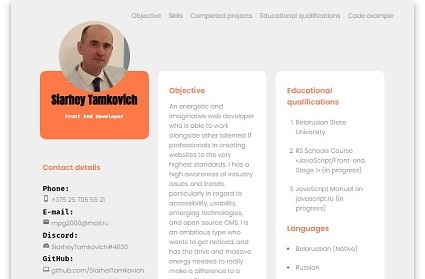
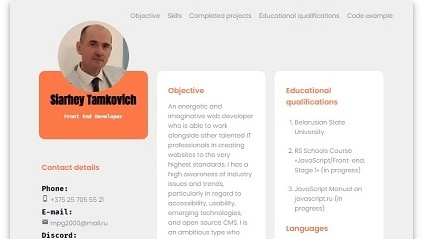
feat: add adaptive

diff --git a/src/app/components/portfolio/portfolio-card/portfolio-card.component.ts b/src/app/components/portfolio/portfolio-card/portfolio-card.component.ts
@@ -38,7 +38,7 @@ export class PortfolioCardComponent implements AfterViewInit {
   checkScroll() {
     const componentPosition = this.element.nativeElement.offsetTop
     const scrollPosition = window.pageYOffset
-    if (scrollPosition >= componentPosition + 1600) {
+    if (scrollPosition >= componentPosition + 1400) {
       this.state = 'show';
     } else {
       this.state = 'hide'

diff --git a/src/app/app.component.ts b/src/app/app.component.ts
@@ -35,7 +35,7 @@ export class AppComponent implements AfterViewInit {
   @HostListener('window:scroll', ['$event'])
   checkScroll() {
     const scrollPosition = window.pageYOffset;
-    console.log(scrollPosition)
+    //console.log(scrollPosition)
     if (scrollPosition > 400) {
       this.isArrowUpActive = true;
     } else {

diff --git a/src/app/components/certificates/certificates-card/certificates-card.component.scss b/src/app/components/certificates/certificates-card/certificates-card.component.scss
@@ -1,9 +1,9 @@
 .certificates-cards-container {
   display: grid;
-  grid-template-columns: repeat(auto-fill, minmax(280px, 1fr));
+  grid-template-columns: repeat(auto-fill, minmax(260px, 1fr));
   grid-gap: 30px;
   gap: 30px;
-  padding: 20px;
+  padding: 20px 0;
 }
 
 .certificates__card {

diff --git a/src/app/components/portfolio/portfolio-card/portfolio-card.component.scss b/src/app/components/portfolio/portfolio-card/portfolio-card.component.scss
@@ -1,6 +1,6 @@
 .project-card-container {
   display: grid;
-  grid-template-columns: repeat(auto-fit, minmax(300px, 1fr));
+  grid-template-columns: repeat(auto-fit, minmax(220px, 1fr));
   grid-gap: 20px;
   gap: 20px;
   padding: 20px;
